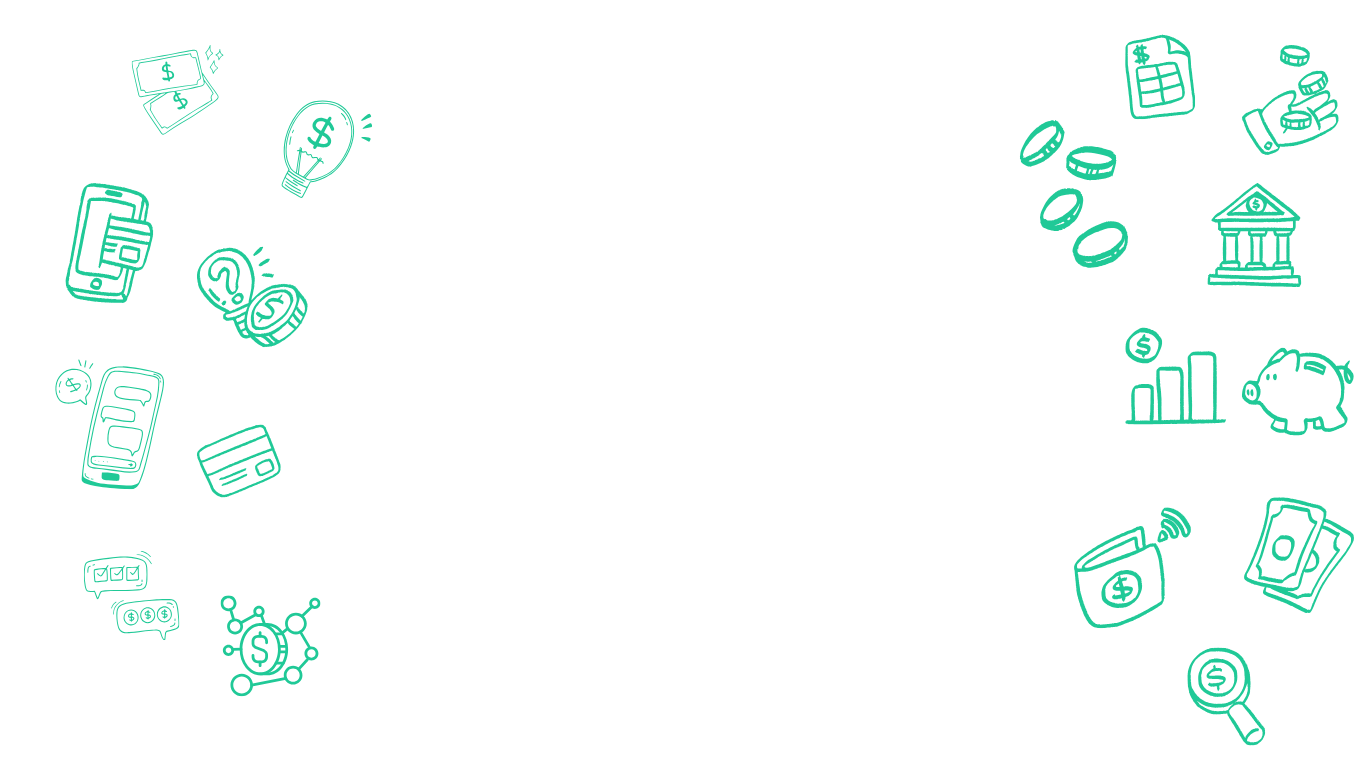
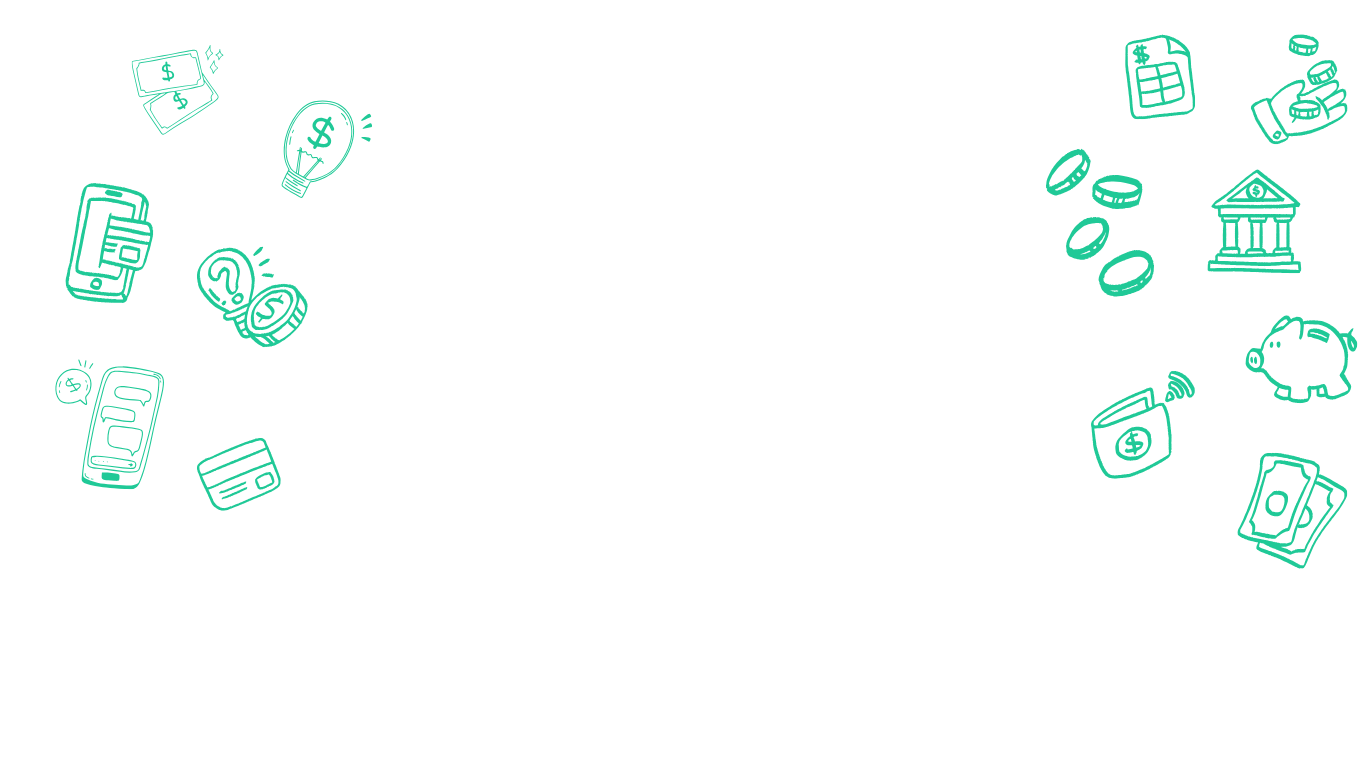
bg image

diff --git a/client/src/myComponents/landing.css b/client/src/myComponents/landing.css
@@ -31,4 +31,7 @@
 }
 .bgd{
   background-image: url(/public/bg.png);
+  background-position: center;
+  background-repeat: no-repeat;
+  background-size: cover;
 }
